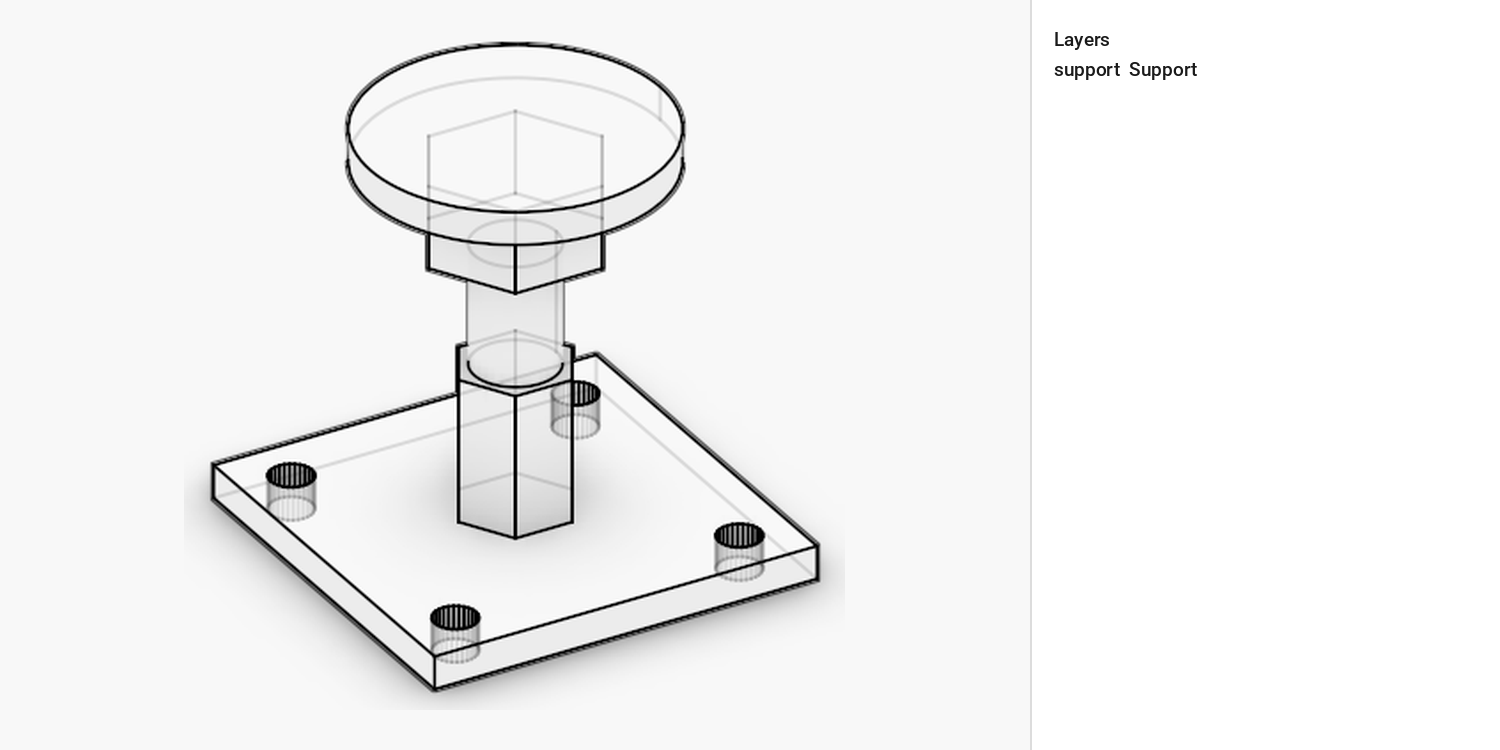
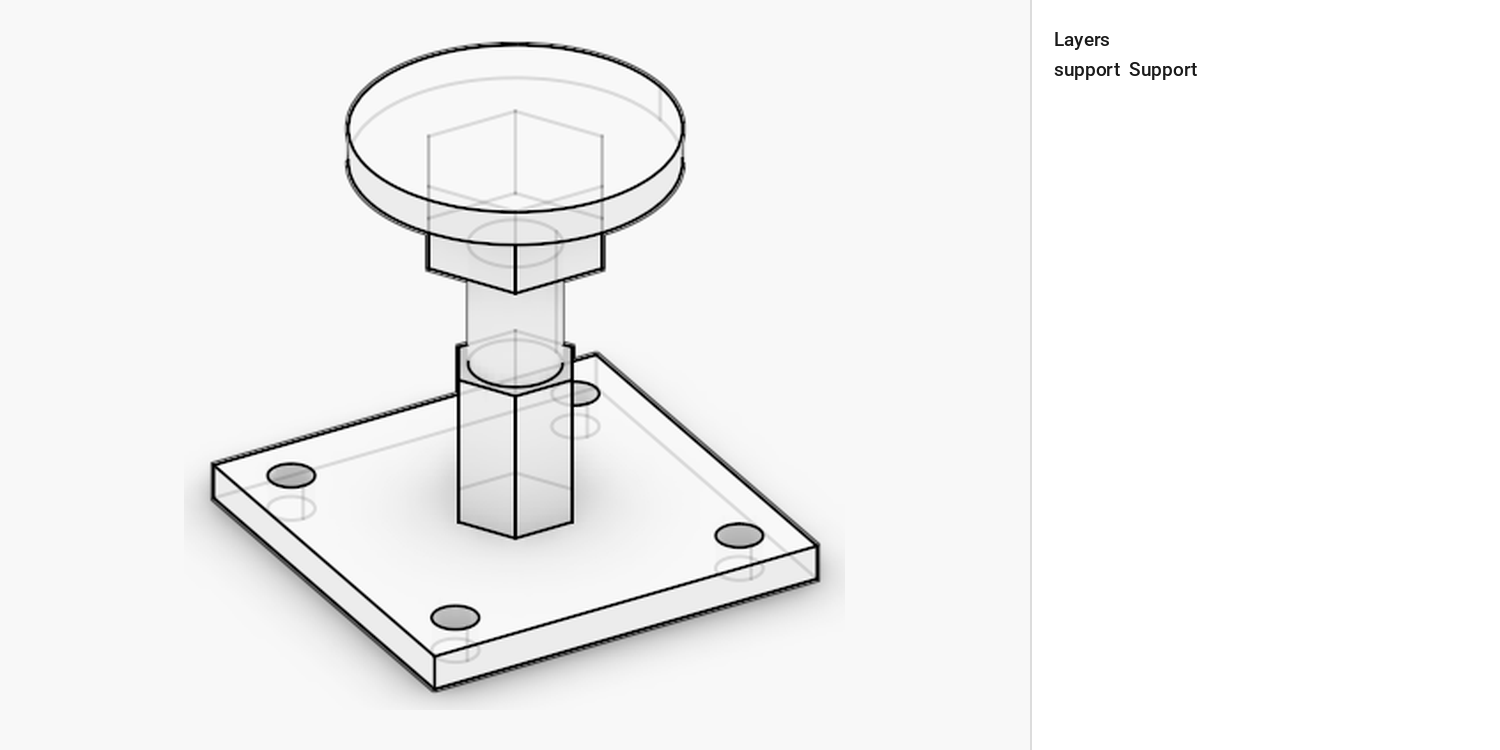
Plate with holes example, InteractionFeatureSolid(drills, radius) for holes alone; the support's base plate drilled with exact anchor holes

diff --git a/src/joinery_solver/wood_elements/wood_element_support.cpp b/src/joinery_solver/wood_elements/wood_element_support.cpp
@@ -2,6 +2,7 @@
 #include "wood_serialization.h"
 #include "wood_element_support.h"
 #include "wood_element_geometry.h"
+#include "wood_brep_drill.h"
 #include "element_support.pb.h"
 
 namespace wood_session {
@@ -112,6 +113,24 @@ static std::array<std::vector<Polyline>, 2> base_plate(const Support& support) {
     return loops;
 }
 
+/// The base plate as a BRep with its anchor holes exact cylinders: the plain plate drilled along every anchor, from just above it, so each hole runs through; the plate with polygonal holes when the drilling fails.
+static BRep base_plate_brep(const Support& support, const std::array<std::vector<Polyline>, 2>& plate) {
+
+    std::vector<Drill> holes;
+
+    for (const Line& anchor : support.anchors()) {
+        const Vector down = anchor.to_direction();
+        holes.push_back({Line::from_points(anchor.start() - down * 1.0, anchor.end()), support.base_plate_hole_diameter * 0.5});
+    }
+
+    const std::optional<BRep> drilled = drilled_brep(Mesh::loft({plate[0][0]}, {plate[1][0]}, true), holes);
+
+    if (drilled)
+        return *drilled;
+
+    return brep_between_loops(plate[0], plate[1]);
+}
+
 /// The level the coupling nut starts at: under the head plate by the nut's own height.
 static double coupling_level(const Support& support) {
     return support.height - support.head_plate_thickness - support.coupling_nut_height;
@@ -179,7 +198,7 @@ const BRep& Support::element_geometry_brep() const {
         const std::array<Polyline, 2> adjustment = hexagon(*this, adjustment_nut_across_flats, base_plate_thickness, adjustment_nut_top);
         const std::array<Polyline, 2> coupling = hexagon(*this, coupling_nut_across_flats, coupling_level(*this), coupling_level(*this) + coupling_nut_height);
 
-        BRep brep = brep_between_loops(plate[0], plate[1]);
+        BRep brep = base_plate_brep(*this, plate);
         append_brep(brep, brep_between_loops({adjustment[0]}, {adjustment[1]}));
         append_brep(brep, drill_brep(Line::from_points(at(adjustment_nut_top), at(coupling_level(*this))), rod_diameter * 0.5));
         append_brep(brep, brep_between_loops({coupling[0]}, {coupling[1]}));

diff --git a/examples/elements/element_plate_holes.cpp b/examples/elements/element_plate_holes.cpp
@@ -1,0 +1,45 @@
+#include "wood_session.h"
+
+using namespace session_cpp;
+using namespace wood_session;
+
+/// A plate with four holes, each drilled by a hole element through a solid feature of drills.
+int main() {
+
+    WoodSession scene("element_plate_holes");
+
+    const Polyline bottom = Polyline::rectangle({0.0, 0.0, 0.0}, {1.0, 0.0, 0.0}, {0.0, 1.0, 0.0}, 600.0, 400.0);
+    const std::shared_ptr<Plate> plate = std::make_shared<Plate>(bottom, bottom.translated({0.0, 0.0, 40.0}), "plate");
+    scene.add(plate);
+
+    for (const Point& centre : std::vector<Point>{{100.0, 100.0, 0.0}, {500.0, 100.0, 0.0}, {500.0, 300.0, 0.0}, {100.0, 300.0, 0.0}}) {
+        const Line axis = Line::from_points(centre + Vector(0.0, 0.0, 50.0), centre + Vector(0.0, 0.0, -10.0));
+        const std::shared_ptr<Joint> hole = Joint::drill(axis, 15.0);
+        hole->name = "hole";
+        hole->is_visible = false;
+        scene.add(hole);
+        scene.add_interaction(hole, plate, std::make_shared<InteractionFeatureSolid>(std::vector<Line>{axis}, 15.0));
+    }
+
+    scene.compute_breps();
+    std::cout << scene << std::endl;
+    scene.pb_dump(pb_path("live"));
+    return 0;
+}
+
+/*
+|||||||| DESCRIPTION ||||||||
+A plate with four holes: a 600 x 400 plate 40 thick from two polylines, and four hidden hole elements, Joint::drill along a vertical axis, each taking a 30 hole away through add_interaction(hole, plate, InteractionFeatureSolid(drills, radius)), a solid feature of drills alone; written as BReps so the holes are exact cylinders.
+
+|||||||| DIRECTORY ||||||||
+cd wood_research/wood
+
+|||||||| CMAKE CONFIGURE ||||||||
+cmake -S . -B build -DCMAKE_BUILD_TYPE=Release
+
+|||||||| CMAKE BUILD && RUN && CLOUDFLARE ||||||||
+cmake --build build --target element_plate_holes --parallel 6 && ./build/element_plate_holes && ../bash/publish-scene.sh --target element_plate_holes
+
+|||||||| VIEW ||||||||
+https://petrasvestartas.github.io/session/
+*/

diff --git a/src/joinery_solver/wood_interaction/wood_interaction_feature/wood_interaction_feature_solid.h b/src/joinery_solver/wood_interaction/wood_interaction_feature/wood_interaction_feature_solid.h
@@ -39,6 +39,9 @@ public:
     /// A feature of the closed mesh: added, taken away or intersected.
     InteractionFeatureSolid(const Mesh& mesh, SolidOperation operation);
 
+    /// Round holes of radius along every drill axis taken away, exact cylinders in the BRep; where an axis end lies inside the element the hole stops there.
+    InteractionFeatureSolid(const std::vector<Line>& drills, double radius);
+
     // ═══════════════════════════════════════════════════════════════════════════
     // Geometry
     // ═══════════════════════════════════════════════════════════════════════════

diff --git a/src/joinery_solver/wood_interaction/wood_interaction_feature/wood_interaction_feature_solid.cpp b/src/joinery_solver/wood_interaction/wood_interaction_feature/wood_interaction_feature_solid.cpp
@@ -13,6 +13,9 @@ namespace wood_session {
 InteractionFeatureSolid::InteractionFeatureSolid(const Mesh& mesh, SolidOperation operation) : mesh(mesh), operation(operation) {
 }
 
+InteractionFeatureSolid::InteractionFeatureSolid(const std::vector<Line>& drills, double radius) : drills(drills), drill_radius(radius) {
+}
+
 // ═══════════════════════════════════════════════════════════════════════════
 // InteractionFeatureSolid - Geometry
 // ═══════════════════════════════════════════════════════════════════════════

diff --git a/tools/render_element_docs.py b/tools/render_element_docs.py
@@ -24,6 +24,7 @@ MUTED = (115, 115, 115)
 
 EXAMPLES = {  # every example: the box the camera frames in mm (x0, y0, z0, x1, y1, z1) and whether its features are drawn
     "element_plate": ((-50, -50, 0, 650, 450, 40), True),
+    "element_plate_holes": ((-50, -50, -10, 650, 450, 50), True),
     "element_beam": ((-150, -150, -150, 1150, 450, 150), True),
     "element_beam_variable": ((-100, -100, -750, 3100, 100, 10), True),
     "element_beam_variable_cut": ((-100, -500, -950, 3100, 500, 200), True),

diff --git a/docs/elements.md b/docs/elements.md
@@ -8,7 +8,7 @@ An element is built from its own parameters only. Whatever another element does 
 
 | Element | Header | Examples |
 | --- | --- | --- |
-| [Plate](@ref elements_plate) | `wood_element_plate.h` | `element_plate` |
+| [Plate](@ref elements_plate) | `wood_element_plate.h` | `element_plate`, `element_plate_holes` |
 | [Beam](@ref elements_beam) | `wood_element_beam.h` | `element_beam` |
 | [BeamVariable](@ref elements_beam_variable) | `wood_element_beam_variable.h` | `element_beam_variable`, `element_beam_variable_cut` |
 | [Column](@ref elements_column) | `wood_element_column.h` | `element_column`, `element_column_session` |

diff --git a/docs/elements/element_plate.md b/docs/elements/element_plate.md
@@ -18,3 +18,11 @@ static std::shared_ptr<Plate> from_rectangle(const Point& origin, const Vector& 
 Its bottom outline, any closed polygon, and the same outline 40 above; the two outlines are its features.
 
 \include{lineno} elements/element_plate.cpp
+
+## With holes
+
+![With holes](elements/element_plate_holes.png)
+
+Four hidden hole elements (`Joint::drill`) each take a 30 hole away through `add_interaction(hole, plate, InteractionFeatureSolid(drills, radius))`, a solid feature of drills alone; written as BReps, the holes are exact cylinders.
+
+\include{lineno} elements/element_plate_holes.cpp

diff --git a/docs/elements/element_support.md b/docs/elements/element_support.md
@@ -16,6 +16,6 @@ static std::shared_ptr<Joint> Joint::support(const Support& support, const Colum
 
 ![On a plane](elements/element_support.png)
 
-A support on the xy plane, written as its exact BRep so the round parts and holes are smooth.
+A support on the xy plane, written as its exact BRep: the round parts and the four anchor holes of the base plate are exact cylinders.
 
 \include{lineno} elements/element_support.cpp
